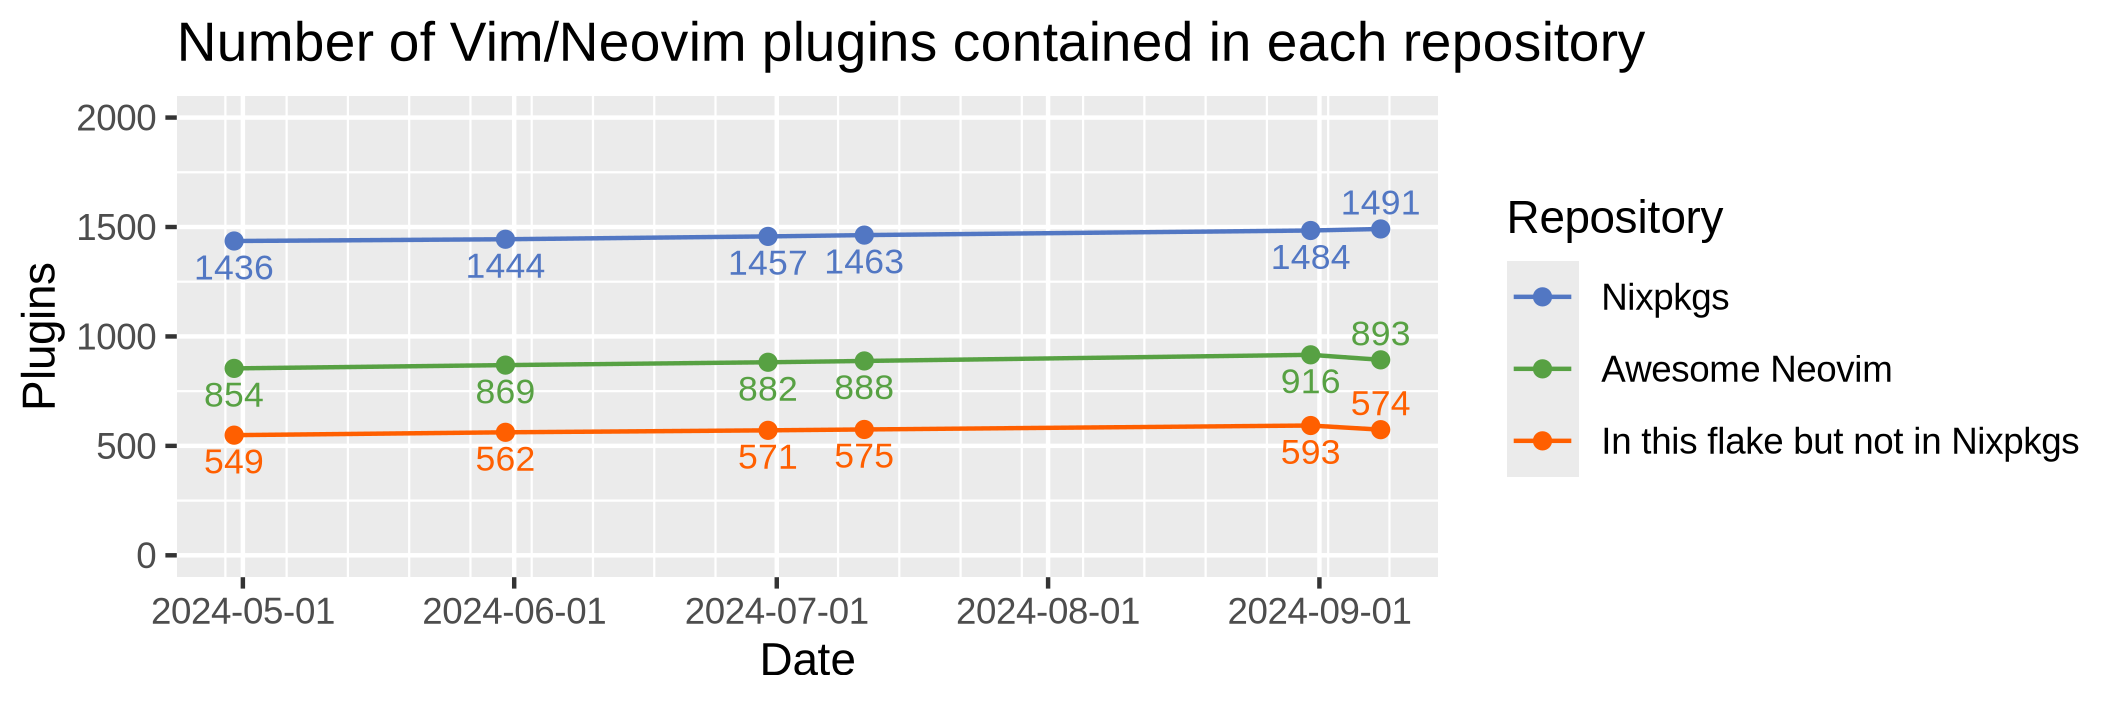
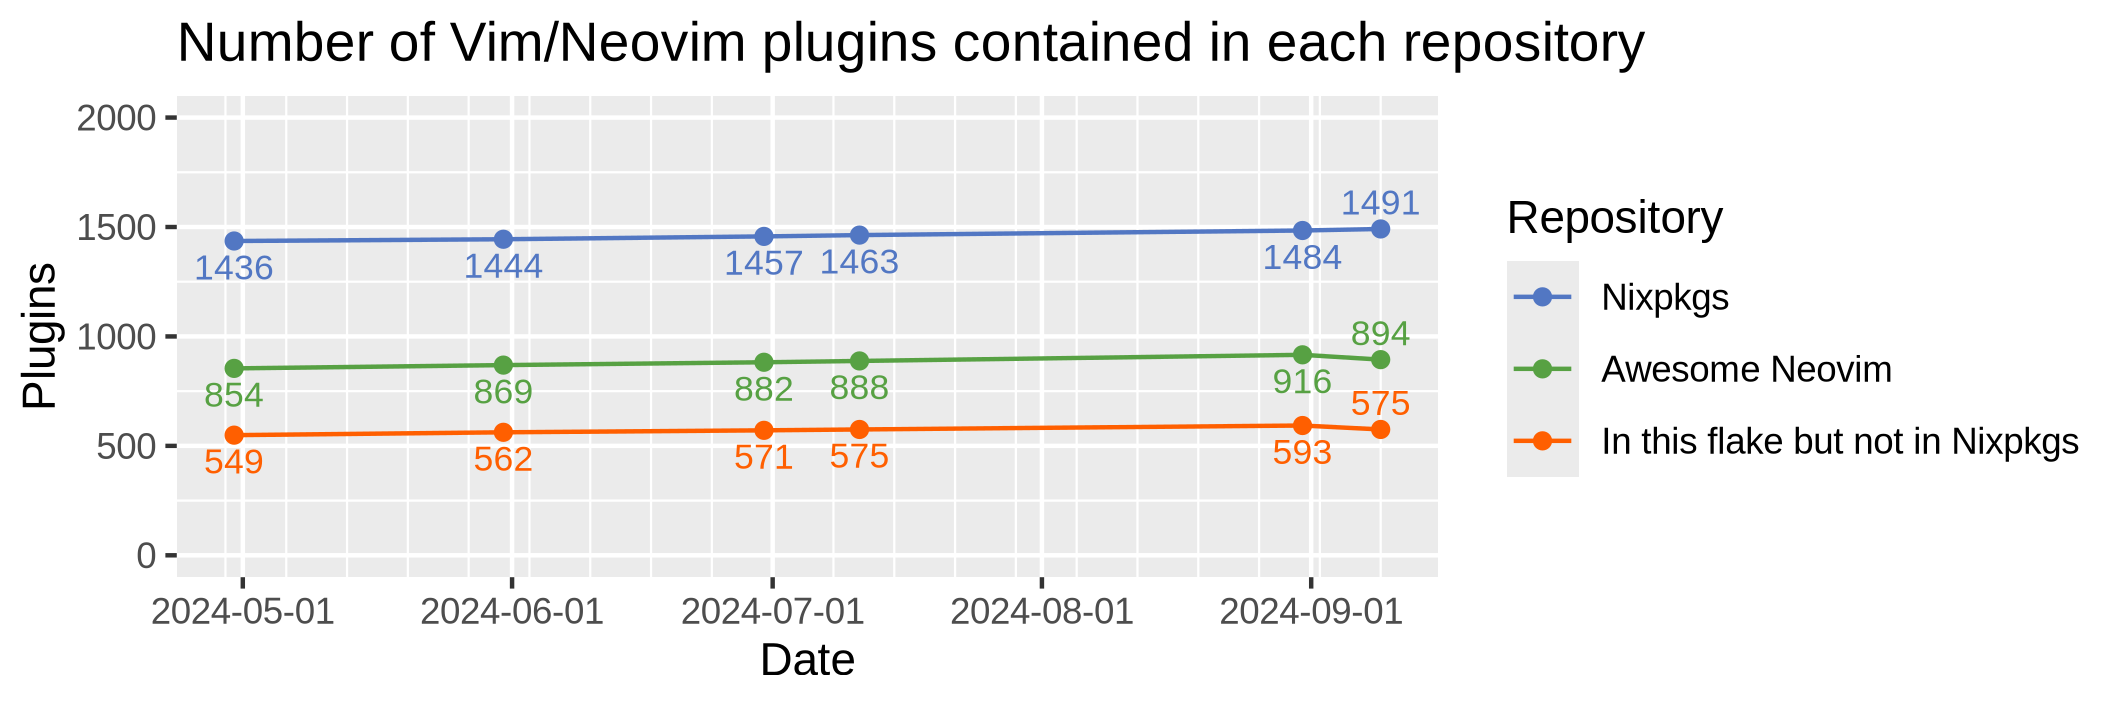
auto: update vim plugins

diff --git a/README.md b/README.md
@@ -8,7 +8,7 @@ Nix flake of Awesome Neovim plugins.
 
 [b1]: https://img.shields.io/github/actions/workflow/status/m15a/flake-awesome-neovim-plugins/check.yml?style=flat-square&logo=github&label=CI
 [b2]: https://github.com/m15a/flake-awesome-neovim-plugins/actions/workflows/check.yml
-[b3]: https://img.shields.io/badge/Awesome_Neovim_plugins-893-57A143?style=flat-square
+[b3]: https://img.shields.io/badge/Awesome_Neovim_plugins-894-57A143?style=flat-square
 [b4]: https://img.shields.io/endpoint?url=https://flakehub.com/f/m15a/flake-awesome-neovim-plugins/badge&style=flat-square
 [b5]: https://flakehub.com/flake/m15a/flake-awesome-neovim-plugins
 
